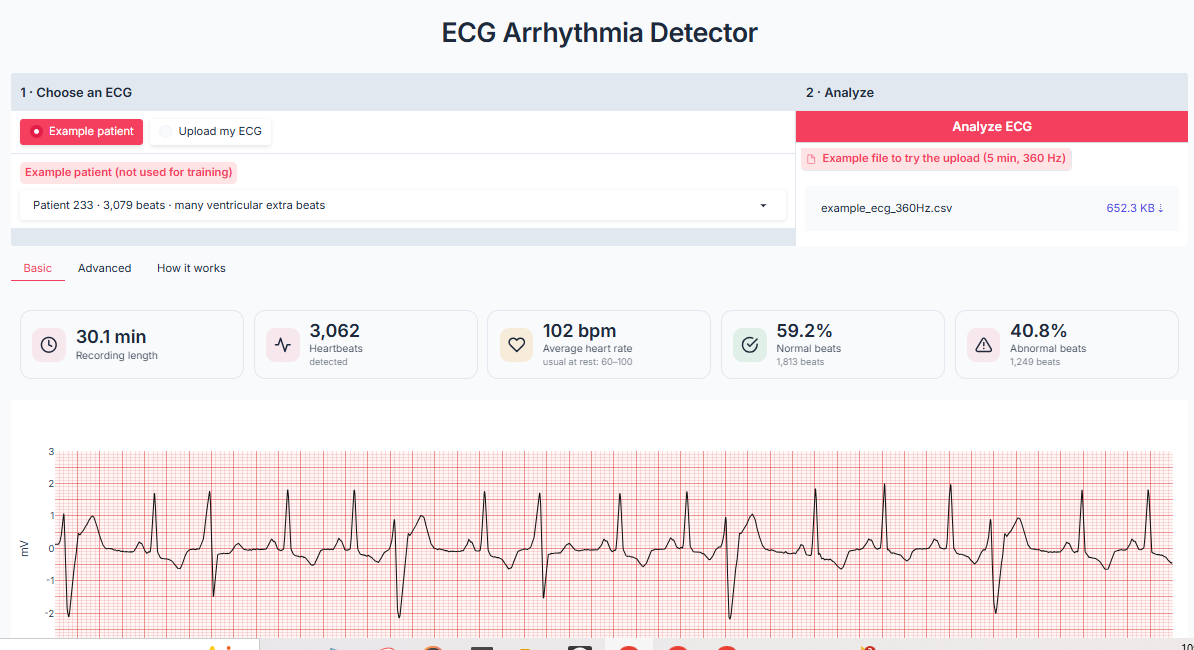
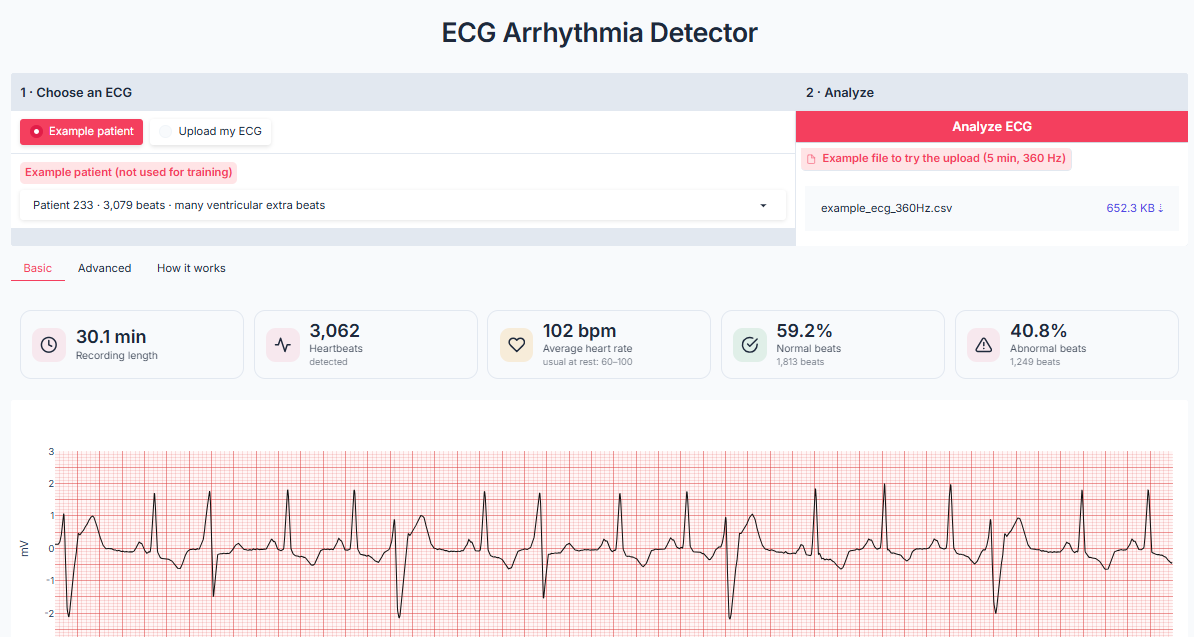
README: per-patient limitation (record 233), Colab fallback for the app; crop Basic screenshot

diff --git a/README.md b/README.md
@@ -23,7 +23,8 @@ Pick one of the 22 test patients or upload your own single-lead ECG (CSV, any sa
 - **How it works:** method, test results and limitations.
 
 **Try it:** open the [Colab notebook](https://colab.research.google.com/github/fady-mostafa-omar/ecg-arrhythmia-detector/blob/main/notebooks/ecg_arrhythmia_detector.ipynb) and run sections 0 and 1. It prints a temporary public link
-to the app, which stays active while that cell runs.
+to the app, which stays active while that cell runs. If the link cannot be created (Gradio's link service is sometimes down),
+run the notebook's next cell instead: it opens the app through Colab.
 
 ## Problem
 
@@ -139,6 +140,9 @@ those numbers are not comparable with the inter-patient results above.
 - F beats are not recognized (0.0% sensitivity); they are only 0.8% of the training beats.
 - About 5 in 100 normal beats are labeled abnormal, so the app overestimates the
   abnormal share in mostly normal recordings.
+- Errors are uneven across patients. In record 233, the default example in the app, the cardiologists label
+  72% of the beats normal but the app shows 59%: 462 normal beats are labeled abnormal,
+  455 of them as F.
 - The epoch is chosen on only 5 validation patients, so single runs vary (see the SD values); the ensemble reduces
   but does not remove this.
 - Research and education tool, not a medical device.
